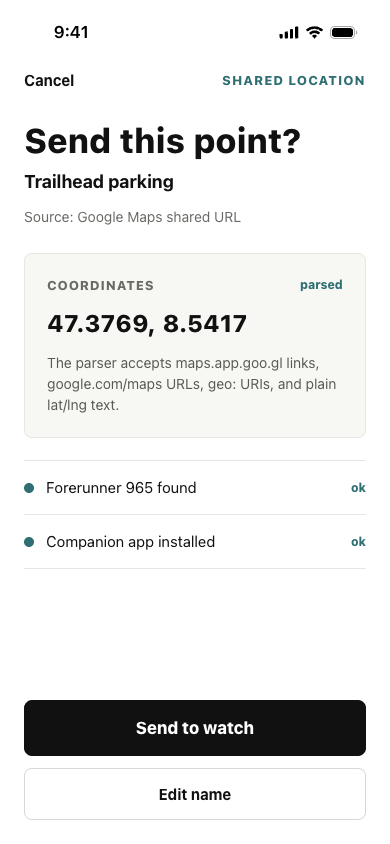
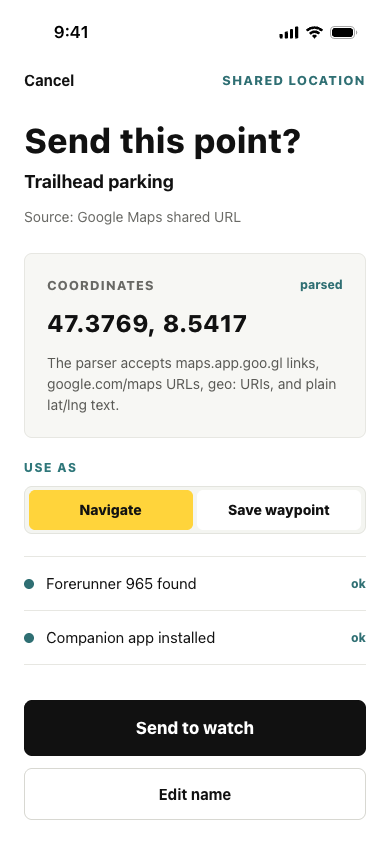
Require point intents in contract payloads

diff --git a/test/features/payloads/message_contract_test.dart b/test/features/payloads/message_contract_test.dart
@@ -25,8 +25,10 @@ void main() {
     test('invalid v1 message fixtures are rejected with typed errors', () {
       final expectations = <String, ContractErrorCode>{
         'malformed_payload.json': ContractErrorCode.malformedPayload,
+        'missing_point_intent.json': ContractErrorCode.malformedPayload,
         'missing_required_field.json': ContractErrorCode.malformedPayload,
         'unknown_kind.json': ContractErrorCode.unsupportedKind,
+        'unsupported_point_intent.json': ContractErrorCode.malformedPayload,
         'unsupported_version.json': ContractErrorCode.unsupportedVersion,
         'invalid_ulid.json': ContractErrorCode.malformedPayload,
       };
@@ -105,6 +107,10 @@ void main() {
         _readJson(File('contract/fixtures/v1/messages/valid/point.json')),
       );
       expect(point.ttl, const Duration(days: 1));
+      expect(
+        (point.toJson()['payload']! as Map<String, Object?>)['intent'],
+        'navigate',
+      );
       expect(
         (point.toJson()['payload']! as Map<String, Object?>)['note'],
         'Meet here',
@@ -204,7 +210,11 @@ void main() {
       expect(
         () => _message(
           kind: MessageKind.note,
-          payload: const PointPayload(latitude: 1, longitude: 2),
+          payload: const PointPayload(
+            intent: PointIntent.navigate,
+            latitude: 1,
+            longitude: 2,
+          ),
         ).validate(),
         throwsA(
           isA<ContractError>().having(
@@ -218,7 +228,11 @@ void main() {
       expect(
         () => _message(
           kind: MessageKind.point,
-          payload: const PointPayload(latitude: double.nan, longitude: 2),
+          payload: const PointPayload(
+            intent: PointIntent.navigate,
+            latitude: double.nan,
+            longitude: 2,
+          ),
         ).validate(),
         throwsA(
           isA<ContractError>().having(
@@ -244,6 +258,36 @@ void main() {
             ContractErrorCode.malformedPayload,
           ),
         ),
+      );
+    });
+
+    test('point intent is required and restricted to supported values', () {
+      final saveWaypoint = PointPayload.fromJson(<String, Object?>{
+        'intent': 'save_waypoint',
+        'lat': 52.52,
+        'lon': 13.405,
+      });
+
+      expect(saveWaypoint.intent, PointIntent.saveWaypoint);
+      expect(saveWaypoint.toJson(), <String, Object?>{
+        'intent': 'save_waypoint',
+        'lat': 52.52,
+        'lon': 13.405,
+      });
+
+      _expectMalformedPayload(
+        () => PointPayload.fromJson(<String, Object?>{
+          'lat': 52.52,
+          'lon': 13.405,
+        }),
+      );
+
+      _expectMalformedPayload(
+        () => PointPayload.fromJson(<String, Object?>{
+          'intent': 'route',
+          'lat': 52.52,
+          'lon': 13.405,
+        }),
       );
     });
 

diff --git a/lib/features/payloads/payload_messages.dart b/lib/features/payloads/payload_messages.dart
@@ -40,8 +40,38 @@ abstract interface class ContractPayload {
   Map<String, Object?> toJson();
 }
 
+enum PointIntent {
+  navigate('navigate'),
+  saveWaypoint('save_waypoint');
+
+  const PointIntent(this.wireName);
+
+  final String wireName;
+
+  static PointIntent fromWireName(Object? value) {
+    if (value is! String) {
+      throw const ContractError(
+        ContractErrorCode.malformedPayload,
+        'Point intent must be a string.',
+      );
+    }
+
+    for (final intent in PointIntent.values) {
+      if (intent.wireName == value) {
+        return intent;
+      }
+    }
+
+    throw ContractError(
+      ContractErrorCode.malformedPayload,
+      'Unsupported point intent: $value',
+    );
+  }
+}
+
 class PointPayload implements ContractPayload {
   const PointPayload({
+    required this.intent,
     required this.latitude,
     required this.longitude,
     this.label,
@@ -50,12 +80,14 @@ class PointPayload implements ContractPayload {
 
   factory PointPayload.fromJson(Map<String, Object?> json) {
     validateAllowedKeys(json, const <String>{
+      'intent',
       'label',
       'lat',
       'lon',
       'note',
     }, 'Point payload');
 
+    final intent = PointIntent.fromWireName(json['intent']);
     final latitude = _number(json['lat'], 'lat');
     final longitude = _number(json['lon'], 'lon');
     if (latitude < -90 || latitude > 90) {
@@ -72,6 +104,7 @@ class PointPayload implements ContractPayload {
     }
 
     return PointPayload(
+      intent: intent,
       latitude: latitude,
       longitude: longitude,
       label: _optionalString(json['label'], 'label'),
@@ -82,6 +115,7 @@ class PointPayload implements ContractPayload {
   @override
   MessageKind get kind => MessageKind.point;
 
+  final PointIntent intent;
   final double latitude;
   final double longitude;
   final String? label;
@@ -89,6 +123,7 @@ class PointPayload implements ContractPayload {
 
   @override
   void validate() {
+    PointIntent.fromWireName(intent.wireName);
     _validateNumber(latitude, 'lat');
     _validateNumber(longitude, 'lon');
     if (latitude < -90 || latitude > 90) {
@@ -110,6 +145,7 @@ class PointPayload implements ContractPayload {
   @override
   Map<String, Object?> toJson() {
     return <String, Object?>{
+      'intent': intent.wireName,
       if (label != null) 'label': label,
       'lat': latitude,
       'lon': longitude,

diff --git a/test/features/send_queue/send_queue_record_test.dart b/test/features/send_queue/send_queue_record_test.dart
@@ -9,7 +9,11 @@ void main() {
     final record = SendQueueRecord.pending(
       message: _message(
         MessageKind.point,
-        const PointPayload(latitude: 1, longitude: 2),
+        const PointPayload(
+          intent: PointIntent.navigate,
+          latitude: 1,
+          longitude: 2,
+        ),
       ),
       createdAt: createdAt,
       deviceId: const GarminDeviceId('physical:123'),

diff --git a/openspec/changes/require-point-intent/tasks.md b/openspec/changes/require-point-intent/tasks.md
@@ -1,25 +1,25 @@
 ## 1. Contract Assets
 
-- [ ] 1.1 Update `contract/protocol/v1/message.schema.json` so point payloads require `intent` and only allow `navigate` or `save_waypoint`.
-- [ ] 1.2 Update `contract/protocol/v1/README.md` to document point intent semantics.
-- [ ] 1.3 Update valid point fixtures to include `intent`.
-- [ ] 1.4 Add or update invalid point fixtures so missing and unsupported point intents are rejected.
+- [x] 1.1 Update `contract/protocol/v1/message.schema.json` so point payloads require `intent` and only allow `navigate` or `save_waypoint`.
+- [x] 1.2 Update `contract/protocol/v1/README.md` to document point intent semantics.
+- [x] 1.3 Update valid point fixtures to include `intent`.
+- [x] 1.4 Add or update invalid point fixtures so missing and unsupported point intents are rejected.
 
 ## 2. Flutter Contract Models
 
-- [ ] 2.1 Add a typed point intent model with wire mappings for `navigate` and `save_waypoint`.
-- [ ] 2.2 Make `PointPayload.intent` required in construction, parsing, validation, and serialization.
-- [ ] 2.3 Update all point payload construction sites in app code and tests to provide an explicit intent.
+- [x] 2.1 Add a typed point intent model with wire mappings for `navigate` and `save_waypoint`.
+- [x] 2.2 Make `PointPayload.intent` required in construction, parsing, validation, and serialization.
+- [x] 2.3 Update all point payload construction sites in app code and tests to provide an explicit intent.
 
 ## 3. Verification
 
-- [ ] 3.1 Update payload contract tests to cover valid point intents, missing intent, and unsupported intent.
-- [ ] 3.2 Run `dart format .`.
-- [ ] 3.3 Run `flutter analyze`.
-- [ ] 3.4 Run `flutter test`.
-- [ ] 3.5 Run `flutter test test/features/payloads`.
+- [x] 3.1 Update payload contract tests to cover valid point intents, missing intent, and unsupported intent.
+- [x] 3.2 Run `dart format .`.
+- [x] 3.3 Run `flutter analyze`.
+- [x] 3.4 Run `flutter test`.
+- [x] 3.5 Run `flutter test test/features/payloads`.
 
 ## 4. Adoption Notes
 
-- [ ] 4.1 Record the adopted `contract/` submodule revision in implementation notes or the PR description.
-- [ ] 4.2 Confirm no native Android or iOS Garmin adapter adds point intent business logic.
+- [x] 4.1 Record the adopted `contract/` submodule revision in implementation notes or the PR description.
+- [x] 4.2 Confirm no native Android or iOS Garmin adapter adds point intent business logic.

diff --git a/openspec/changes/require-point-intent/implementation.md b/openspec/changes/require-point-intent/implementation.md
@@ -1,0 +1,11 @@
+## Implementation Notes
+
+- Contract submodule base revision at implementation time:
+  `0324a3dcaaba9d580723a7e845b312084c6c2343`
+- The point-intent contract changes are currently applied in the `contract/`
+  submodule working tree. When the contract changes are committed, the parent
+  repository PR should pin and document the resulting contract commit SHA as
+  the adopted revision.
+- No native Android or iOS Garmin send adapter was changed. The current send
+  boundary remains Dart-side validation in `MethodChannelGarminSendGateway`,
+  which passes normalized `message.toJson()` maps over the Platform Channel.